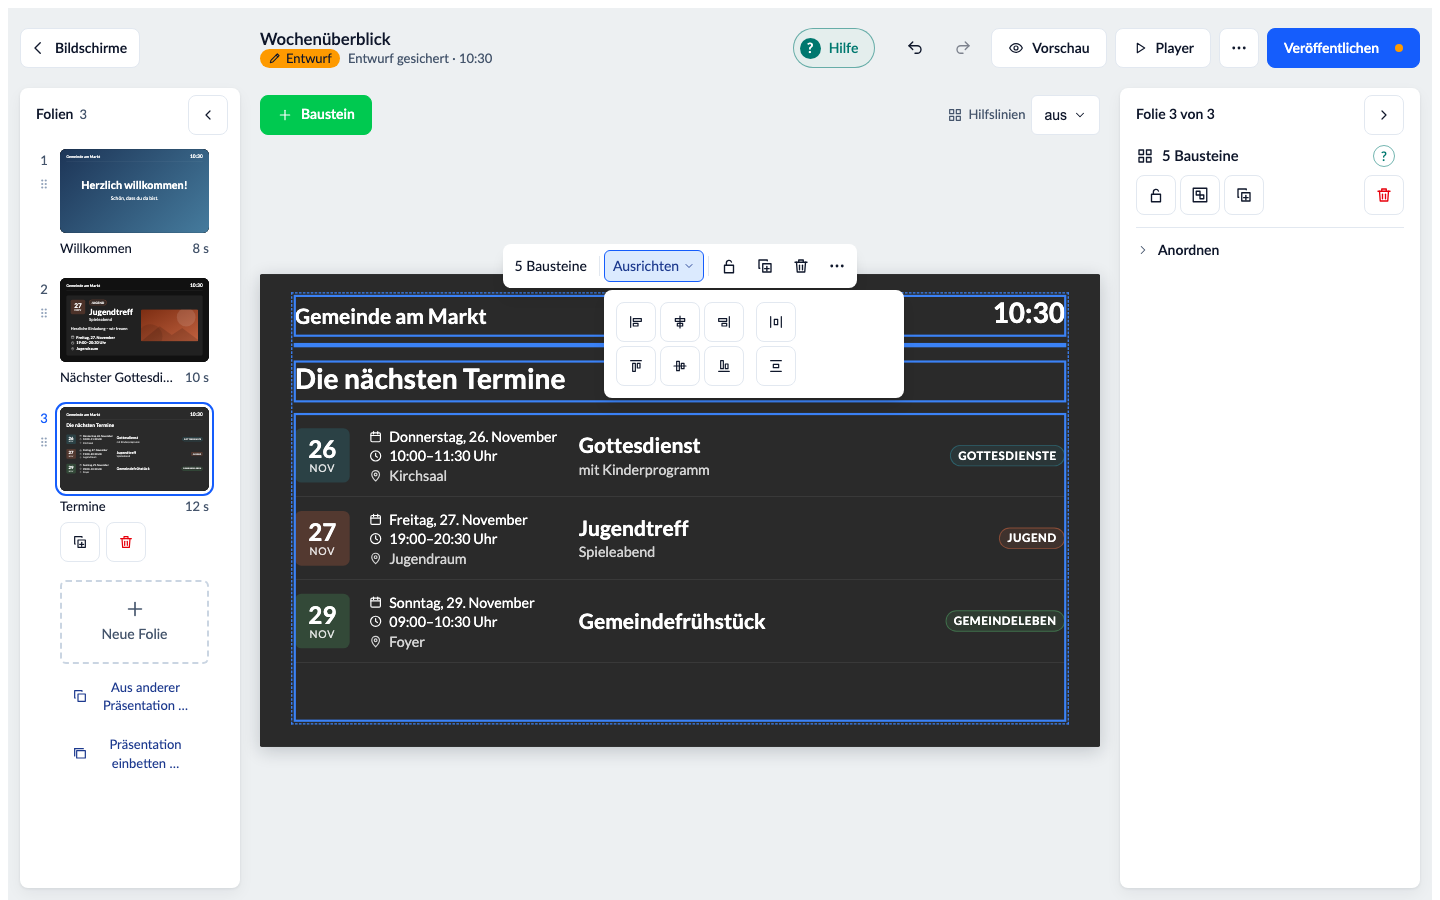
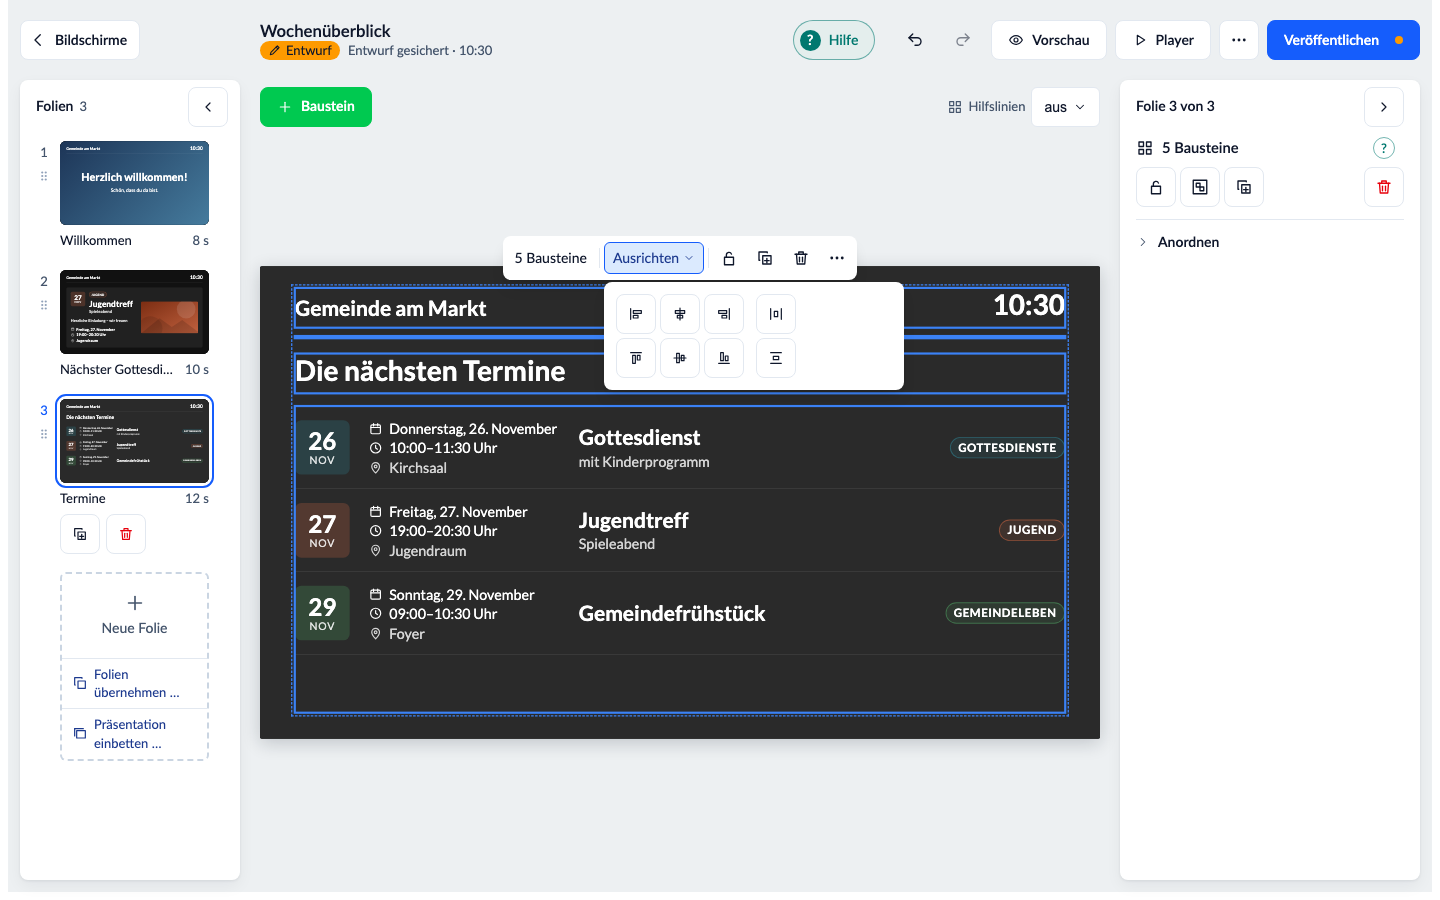
Folienliste und Einbetten-Dialog: Knöpfe in einem Rahmen, Radio-Knöpfe in ihrer Größe
Die globale Feldregel machte Radio-Knöpfe volle Breite; im Dialog „Präsentation einbetten“ stand
der Name dadurch als Buchstabenspalte. „Neue Folie“, „Folien übernehmen …“ und „Präsentation
einbetten …“ stehen jetzt in einem gemeinsamen gestrichelten Rahmen.

diff --git a/src/designer/SlideList.vue b/src/designer/SlideList.vue
@@ -232,41 +232,43 @@ async function remove(id: string, name: string): Promise<void> {
             </template>
             <!-- Where one looks for the next slide: below the last (Plan.md, Nächste Schritte 11); in the sheet a tile of the grid. -->
             <li class="add-item">
-                <button
-                    v-tip="t.editor.slideList.newSlide"
-                    class="add"
-                    type="button"
-                    :aria-label="t.editor.slideList.newSlide"
-                    data-testid="add-slide"
-                    :style="{ minHeight: `${thumb.height}px` }"
-                    @click="editor.addSlide()"
-                >
-                    <Icon name="plus" :size="22" />
-                    <span class="add-label">{{ t.editor.slideList.newSlide }}</span>
-                </button>
-                <button
-                    v-tip="t.editor.slideList.importTitle"
-                    class="import"
-                    type="button"
-                    :aria-label="t.editor.slideList.importTitle"
-                    data-testid="import-slides"
-                    @click="importing = true"
-                >
-                    <Icon name="copy" :size="16" />
-                    <span class="import-label">{{ t.editor.slideList.importLabel }}</span>
-                </button>
-                <button
-                    v-tip="embedBlocked ?? t.editor.slideList.embedTitle"
-                    class="import"
-                    type="button"
-                    :aria-label="t.editor.slideList.embedTitle"
-                    :disabled="!!embedBlocked"
-                    data-testid="embed-playlist"
-                    @click="embedding = true"
-                >
-                    <Icon name="slides" :size="16" />
-                    <span class="import-label">{{ t.editor.slideList.embedLabel }}</span>
-                </button>
+                <div class="add-group">
+                    <button
+                        v-tip="t.editor.slideList.newSlide"
+                        class="add"
+                        type="button"
+                        :aria-label="t.editor.slideList.newSlide"
+                        data-testid="add-slide"
+                        :style="{ minHeight: `${thumb.height}px` }"
+                        @click="editor.addSlide()"
+                    >
+                        <Icon name="plus" :size="22" />
+                        <span class="add-label">{{ t.editor.slideList.newSlide }}</span>
+                    </button>
+                    <button
+                        v-tip="t.editor.slideList.importTitle"
+                        class="import"
+                        type="button"
+                        :aria-label="t.editor.slideList.importTitle"
+                        data-testid="import-slides"
+                        @click="importing = true"
+                    >
+                        <Icon name="copy" :size="16" />
+                        <span class="import-label">{{ t.editor.slideList.importLabel }}</span>
+                    </button>
+                    <button
+                        v-tip="embedBlocked ?? t.editor.slideList.embedTitle"
+                        class="import"
+                        type="button"
+                        :aria-label="t.editor.slideList.embedTitle"
+                        :disabled="!!embedBlocked"
+                        data-testid="embed-playlist"
+                        @click="embedding = true"
+                    >
+                        <Icon name="slides" :size="16" />
+                        <span class="import-label">{{ t.editor.slideList.embedLabel }}</span>
+                    </button>
+                </div>
             </li>
         </ol>
         <SlideImportDialog v-if="importing" @close="importing = false" />
@@ -396,6 +398,18 @@ li.add-item {
 li.add-item:hover {
     background: none;
 }
+/* The three ways to more slides in one frame: they belong together (user, 2026-11-25). */
+.add-group {
+    display: flex;
+    flex-direction: column;
+    overflow: hidden;
+    border: 2px dashed var(--d-interactive);
+    border-radius: var(--d-radius);
+    transition: border-color var(--d-transition);
+}
+.add-group:hover {
+    border-color: var(--d-accent);
+}
 .add {
     box-sizing: border-box;
     display: flex;
@@ -404,8 +418,7 @@ li.add-item:hover {
     justify-content: center;
     gap: 4px;
     width: 100%;
-    border: 2px dashed var(--d-interactive);
-    border-radius: var(--d-radius);
+    border: 0;
     background: none;
     color: var(--d-text-muted);
     font: inherit;
@@ -413,27 +426,28 @@ li.add-item:hover {
     transition: background-color var(--d-transition), border-color var(--d-transition);
 }
 .add:hover {
-    border-color: var(--d-accent);
     background: var(--d-accent-pale);
     color: var(--d-accent-strong);
 }
-/* The smaller way to a new slide: copies from another playlist. */
+/* The smaller ways: copy slides from another presentation, embed a whole one. */
 .import {
     display: flex;
     align-items: center;
-    justify-content: center;
     gap: 6px;
     width: 100%;
     min-height: var(--d-control-h);
-    margin-top: var(--d-space-2);
-    padding: 6px 12px;
+    padding: 6px 10px;
     border: 0;
-    border-radius: var(--d-radius);
+    border-top: 1px solid var(--d-divider);
+    text-align: left;
     background: none;
     color: var(--d-accent-strong);
     font: inherit;
     font-size: var(--d-size-sm);
     cursor: pointer;
+}
+.import > :first-child {
+    flex: none;
 }
 .import:disabled {
     cursor: default;
@@ -542,15 +556,8 @@ li.disabled .thumb {
     justify-content: space-between;
     margin-top: 6px;
 }
-.slide-list--sheet li.add-item {
-    display: flex;
-    flex-direction: column;
-    gap: 6px;
-}
 .slide-list--sheet .import {
-    margin-top: 0;
     min-height: 44px;
-    text-align: center;
 }
 .slide-list--sheet .add {
     padding: 8px;

diff --git a/src/i18n/designer.ts b/src/i18n/designer.ts
@@ -381,9 +381,9 @@ export const t = {
             off: ' · aus',
             newSlide: 'Neue Folie',
             importTitle: 'Folien aus anderer Präsentation übernehmen',
-            importLabel: 'Aus anderer Präsentation …',
+            importLabel: 'Folien übernehmen\u00a0…',
             embedTitle: 'Eine ganze Präsentation einbetten',
-            embedLabel: 'Präsentation einbetten …',
+            embedLabel: 'Präsentation einbetten\u00a0…',
             embedBlockedEmbeds: 'Diese Präsentation bettet schon eine andere ein – je Präsentation geht eine Einbettung.',
             embedBlockedEmbedded: (names: string) => `Diese Präsentation ist selbst in ${names} eingebettet und kann deshalb nichts einbetten – es geht nur eine Ebene.`,
             embedded: (n: number) => `${n} ${n === 1 ? 'Folie' : 'Folien'} · eingebettet`,

diff --git a/src/designer/theme.css b/src/designer/theme.css
@@ -155,7 +155,7 @@
     background-repeat: no-repeat;
     appearance: none;
 }
-.infoscreen-designer :where(input[type='checkbox'], input[type='color']) {
+.infoscreen-designer :where(input[type='checkbox'], input[type='radio'], input[type='color']) {
     width: auto;
 }
 .infoscreen-designer :where(input[type='color']) {
